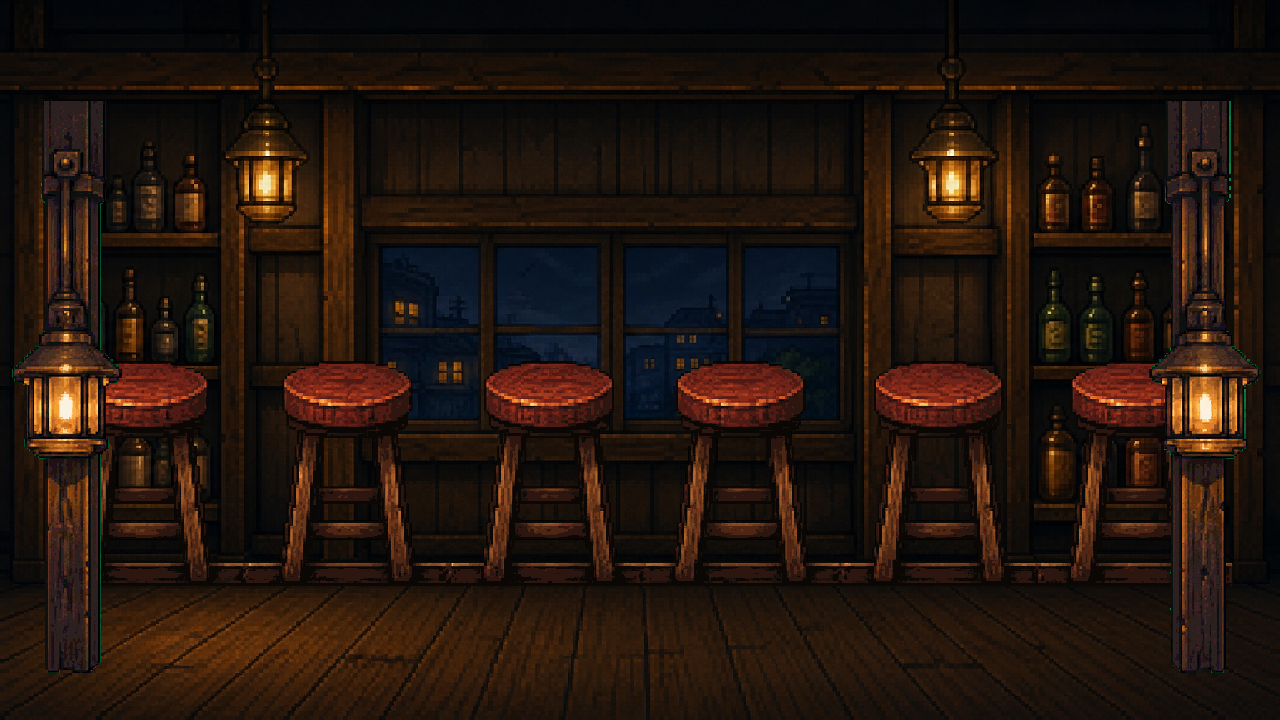
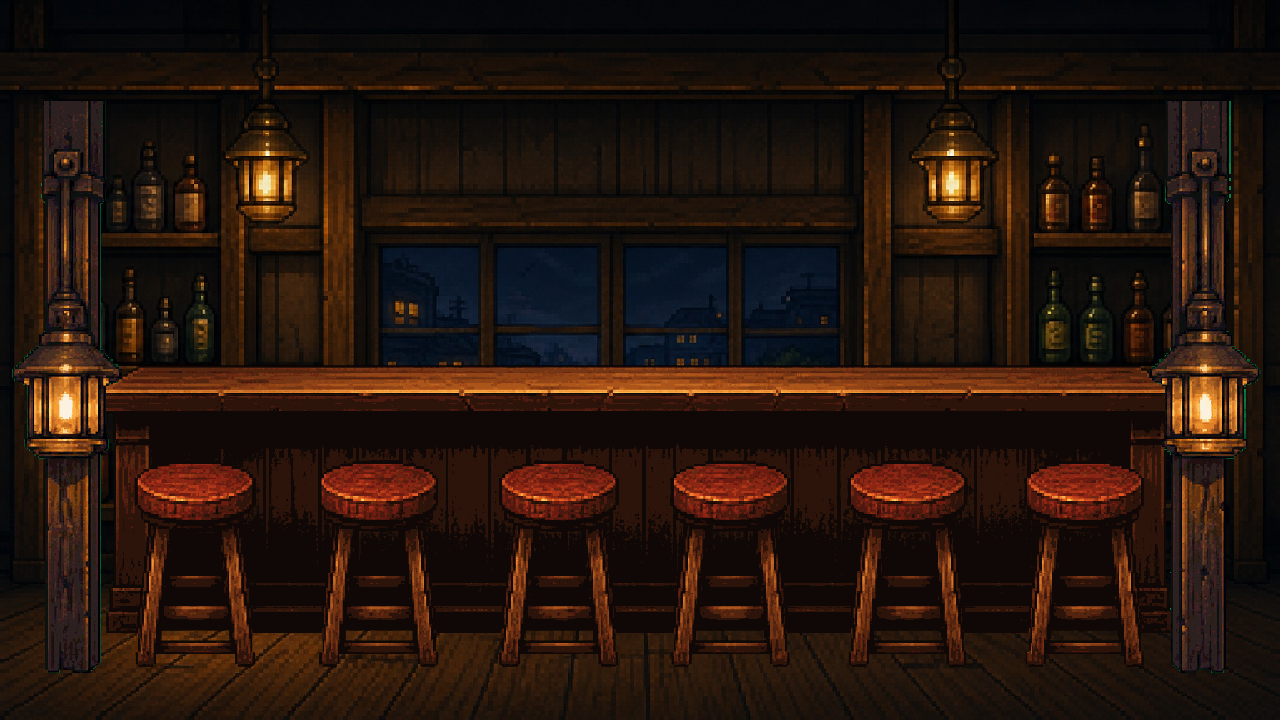
Artist 매장 장면 원근 보정

Changed region(s): [[0.0625, 0.4889, 0.9375, 0.9167]]

diff --git a/art/review/artist-002/composites/preview.html b/art/review/artist-002/composites/preview.html
@@ -22,19 +22,19 @@
       position: absolute;
       z-index: 2;
       left: 50%;
-      bottom: -2%;
-      width: min(74vw, 1120px);
-      max-height: 64vh;
+      bottom: -9%;
+      width: min(88vw, 1320px);
+      max-height: 82vh;
       object-fit: contain;
       transform: translateX(-50%);
       transform-origin: bottom center;
     }
     .foreground { z-index: 3; }
     @media (max-aspect-ratio: 16 / 9) {
-      .station { width: min(82vw, 1120px); }
+      .station { width: min(94vw, 1320px); }
     }
     @media (min-aspect-ratio: 2 / 1) {
-      .station { width: min(62vw, 1120px); max-height: 78vh; bottom: -7%; }
+      .station { width: min(76vw, 1320px); max-height: 92vh; bottom: -16%; }
     }
   </style>
 </head>
@@ -50,8 +50,7 @@
       ],
       station: [
         ['background/shop-backwall-night.jpg', 'full'],
-        ['stations/st-drink-beer-tier-1.png', 'station'],
-        ['background/shop-foreground-frame.png', 'full foreground']
+        ['stations/st-drink-beer-tier-1.png', 'station']
       ],
       exteriorClosed: [['background/bg-exterior-s0-closed.jpg', 'full']],
       exteriorOpen: [['background/bg-exterior-s1-open.jpg', 'full']]

diff --git a/art/source/environment/bg-seating-6-r2.html b/art/source/environment/bg-seating-6-r2.html
@@ -1,0 +1,28 @@
+<!doctype html>
+<html lang="ko">
+<head>
+  <meta charset="utf-8">
+  <style>
+    html, body {
+      width: 100%;
+      height: 100%;
+      margin: 0;
+      overflow: hidden;
+      background: transparent;
+    }
+    img {
+      position: absolute;
+      top: 20%;
+      left: 50%;
+      width: 90%;
+      height: auto;
+      display: block;
+      image-rendering: pixelated;
+      transform: translateX(-50%);
+    }
+  </style>
+</head>
+<body>
+  <img src="../../review/artist-002/bg-seating-6/r2/alpha.png" alt="">
+</body>
+</html>

diff --git a/art/ASSET-CATALOG.md b/art/ASSET-CATALOG.md
@@ -1,6 +1,6 @@
 # YAKI SEASON asset catalog
 
-- 카탈로그 버전: `1.1.0`
+- 카탈로그 버전: `1.1.1`
 - 마지막 검증일: `2026-07-22`
 - 기준: `ART-003 v1.1.0`, `SYS-004 v1.0.0`, `ART-001 v1.1.0`, `QA-002 v1.0.0`
 - 런타임 단일 원본: [`public/assets/manifest.json`](../public/assets/manifest.json)
@@ -34,7 +34,7 @@
[8 lines of base64/hex data omitted]
@@ -43,7 +43,7 @@
[1 lines of base64/hex data omitted]
 <!-- asset-registry:end -->
 
-승인 24개 image·atlas 합계는 `2,832,021`바이트, 중복을 제거한 companion metadata는 `6,686`바이트로 총 `2,838,707`바이트다. 스테이션·6석 anchor와 배경 mobile crop은 [`p0-environment-layout.json`](../public/assets/core/metadata/p0-environment-layout.json)에 고정했다. 츠키오카 최종 11-clip atlas는 Artist 004 승인 전까지 기존 fragment를 사용한다.
+승인 24개 image·atlas 합계는 `2,855,961`바이트, 중복을 제거한 companion metadata는 `6,690`바이트로 총 `2,862,651`바이트다. 스테이션·6석 anchor와 배경 mobile crop은 [`p0-environment-layout.json`](../public/assets/core/metadata/p0-environment-layout.json)에 고정했다. 츠키오카 최종 11-clip atlas는 Artist 004 승인 전까지 기존 fragment를 사용한다.
 
 ## 화면·모듈별 조회
 
